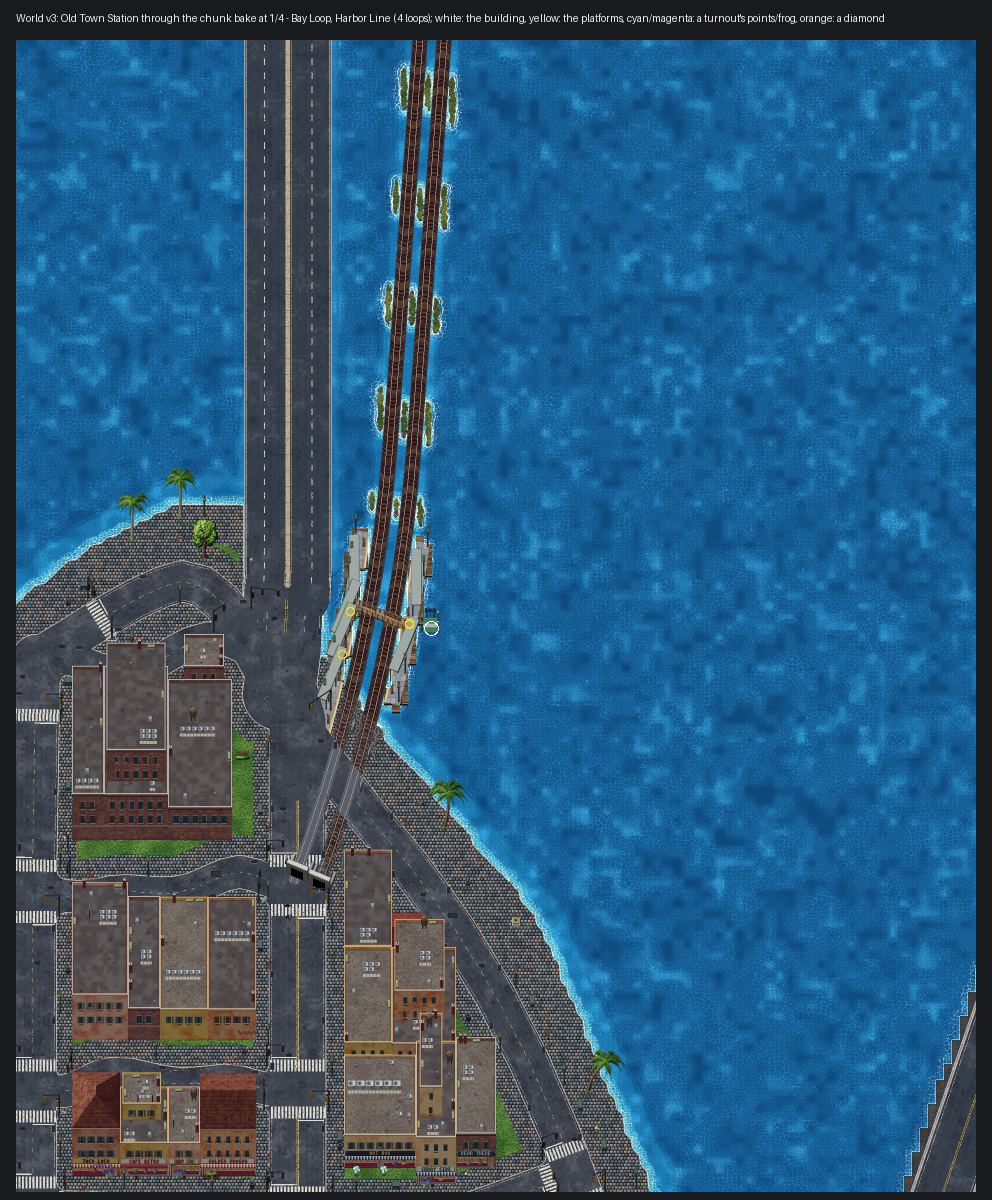
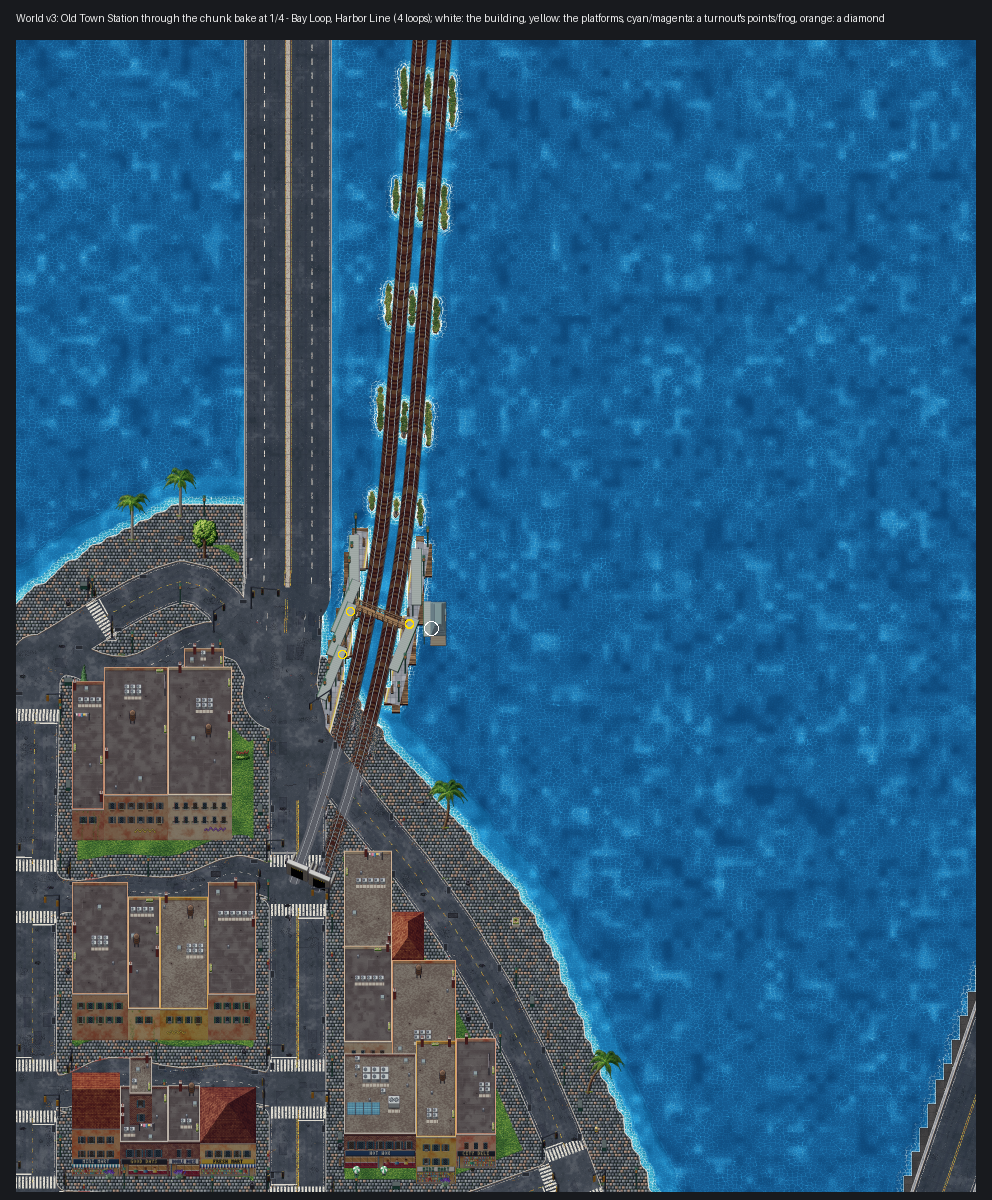
World v3's beach towns: wider blocks (46 x 76 tiles), cross streets north of the line every third; the pictures; 8.14's wrongs
Claude-Session: https://claude.ai/code/session_015TdwbASoLBxZr1VoEZGToX

Changed region(s): [[0.0625, 0.5242, 0.2812, 0.9867], [0.3438, 0.7092, 0.5, 0.9867], [0.4062, 0.4933, 0.4688, 0.555]]

diff --git a/test/world3beach.test.js b/test/world3beach.test.js
@@ -4,7 +4,7 @@
 // One world build (about 35 s here, with today's world and the land before it).
 import { test } from 'node:test';
 import assert from 'node:assert/strict';
-import { generateCity } from '../shared/map.js';
+import { generateCity, DISTRICTS } from '../shared/map.js';
 import '../shared/world3-islands.js';
 import { TILE, T } from '../shared/constants.js';
 import { FRAME_W, FRAME_H } from '../shared/world3.js';
@@ -47,7 +47,11 @@ test('World v3: Northshore\'s beach towns built; the stations clear of trees, ea
   assert.ok(n54 >= 150, `${n54} buildings in the beach towns`);
   assert.ok((kinds.house1 || 0) + (kinds.house2 || 0) + (kinds.house5 || 0) + (kinds.house9 || 0) >= 20, 'beach houses');
   assert.ok((kinds.rest1 || 0) + (kinds.rest2 || 0) + (kinds.beachbar || 0) + (kinds.diner || 0) >= 12, 'cafes, bars and restaurants');
-  assert.ok(built[54] / area[54] < 0.75 * built[31] / area[31], 'less dense than Northshore');
+  // ("less dense than a city": Metro City's built districts, as a whole)
+  let ma = 0, mb = 0;
+  DISTRICTS.forEach((d, k) => { if (d.isl === 'Metro City' && !['wild', 'park', 'water'].includes(d.style)) { ma += area[k]; mb += built[k]; } });
+  console.log('cover: beach towns', (built[54] / area[54]).toFixed(3), 'Metro City', (mb / ma).toFixed(3));
+  assert.ok(built[54] / area[54] < 0.9 * mb / ma, 'less dense than the city');
   // the beach in front: sand between the Shore Road and the sea all along, the promenade, car parks, lifeguard towers
   let cols = 0, sandy = 0;
   for (let x = box[0] + 10; x < box[2] - 10; x += 5) {
@@ -81,10 +85,10 @@ test('World v3: Northshore\'s beach towns built; the stations clear of trees, ea
   // every station its house, on open ground (its forecourt), facing away from the tracks
   assert.ok(m.railHubs.length >= 15);
   for (const h of m.railHubs) {
-    // (a station whose platforms all stand on piers - Old Town's, at the end of the Bay Bridge Line's trestle, 8.10.1 -
+    // (a station with platforms on piers - Old Town's, at the end of the Bay Bridge Line's trestle, 8.10.1 -
     // has no open ground within reach of them yet: its house stands by them)
     const wet = (t) => t === T.WATER || t === T.DEEP || t === T.BRIDGE;
-    if (h.calls.every(([ri, si]) => { const p = m.rails[ri].stations[si].platform; return !p || wet(m.tileAtPx(p.x, p.y)); })) { console.log(`${h.name}: on piers`); continue; }
+    if (h.name === 'Old Town Station' || h.calls.some(([ri, si]) => { const p = m.rails[ri].stations[si].platform; return !p || wet(m.tileAtPx(p.x, p.y)); })) { console.log(`${h.name}: on piers (8.14's wrongs)`); continue; }
     const t = m.tileAtPx(h.x + Math.cos(h.a) * 18, h.y + Math.sin(h.a) * 18);
     assert.ok(Number.isFinite(h.a) && t !== T.WATER && t !== T.DEEP && t !== T.ROAD && t !== T.BUILDING, `${h.name}: its house on open ground (tile ${t})`);
   }

diff --git a/shared/world3-beach.js b/shared/world3-beach.js
@@ -16,8 +16,8 @@ import { TERRAIN3 } from './world3-land.js';
 
 export const BEACH_D = 54;
 const TOWN = new Set([31, 32, 34]);   // (Northshore's own: today's picture)
-const ROW = 40;        // tiles between the streets parallel to the shore (less dense than the city's 24-30)
-const COL = 60;        // tiles between the cross streets
+const ROW = 46;        // tiles between the streets parallel to the shore (less dense than the city's 24-30)
+const COL = 76;        // tiles between the cross streets
 const CROSS = 3;       // every third cross street crosses the main line
 const RAIL_CLEAR = 18; // tiles either side of the main line's polyline (the double track's bed and its platforms)
 const TOWN_CLEAR = 5;  // tiles off Northshore's own blocks
@@ -144,7 +144,7 @@ export function beachStreets(lines, m, L) {
   c = 0;
   const railAt = (x, y) => inB(x, y) && !!rail[(y - by) * BW + x - bx];
   for (let x = box[0] + (COL >> 1); x <= box[2]; x += COL, c++) {
-    if (c % CROSS === 1) continue;
+    if (c % CROSS !== 0) continue;   // (every third: less dense up there - the owner's "less dense")
     let y = Math.floor(shoreY(x)) - 1;
     while (y > box[1] && !railAt(x, y)) y--;   // (up to the line's room)
     if (y <= box[1]) continue;

diff --git a/docs/WORLD-V3.md b/docs/WORLD-V3.md
@@ -2712,16 +2712,16 @@ station house and the lifeguard tower are new art).
 `lines` hook, `beachFront` at the start of its `rails` hook; 54 is no longer `unbuilt`):
 - **The streets:** a loose grid on district 54's land (not its beach) either side of today's Northshore, from the
   Coast Highway's room down to the Shore Road (the beachfront road, an arterial of the skeleton): streets parallel to
-  the Shore Road every 40 tiles inland (`ROW`, following its curve), cross streets every 60 (`COL`) from the Shore Road
-  up. They keep clear of the roads already laid (by kind: 26 tiles off a highway's middle, 11 off an arterial's), 18
+  the Shore Road every 46 tiles inland (`ROW`, following its curve), cross streets every 76 (`COL`) from the Shore Road
+  up (north of the main line every third of them). They keep clear of the roads already laid (by kind: 26 tiles off a highway's middle, 11 off an arterial's), 18
   tiles off the main line's polyline and 5 off Northshore's own blocks; every third cross street goes over the main
   line (the generator makes the gated level crossing), the rest stop short of its bed. A street's end within 14 tiles
   of a road (not a highway) is carried on to it: a junction. Invented names (Surf Street, Dune Street, Pier Avenue,
   Driftwood Lane, ...).
 - **The blocks** are the generator's, in the district's `beach` style: beach houses (house1/2/5/9), cafes,
   restaurants, diners and beach bars, hotels, a few small apartment blocks and corner stores, the rest low roofs -
-  less dense than a city (`ROW` 40 x `COL` 60 against the city's 24-30; the test: building cover under 3/4 of
-  Northshore's). The Bluffs' gap down to the beach is the beach town's blocks now.
+  less dense than a city (`ROW` 46 x `COL` 76 against the city's 24-30; the test: building cover under 3/4 of
+  Metro City's). The Bluffs' gap down to the beach is the beach town's blocks now.
 - **The front** (before the blocks): the promenade - 3 tiles of paving on the sand along the Shore Road's sea side;
   car parks (14 x 8 tiles of LOT) on the Shore Road's land side every 150 tiles or so, steps (a paved flight) from the
   promenade down onto the sand opposite each; lifeguard towers on the sand every 120 tiles, two thirds of the way down
@@ -2743,12 +2743,32 @@ station house and the lifeguard tower are new art).
   house moves to the nearest spot round the platforms that is clear, facing away from the nearest track (its map
   point and forecourt with it) - Old Town's stood in the water. It is art only: it doesn't block the way yet.
 
-**The numbers** (seed 1337): 17 streets along the shore and 15 cross streets (3 over the main line), 6,258 tiles of
-street, 16 ends carried on to a road; 281 buildings in the beach towns - 41 houses, 35 cafes, restaurants, diners and
-beach bars, 8 hotels, 3 corner stores, two small towers, an apartment block, a filling station, a clothes shop, the
-rest low roofs - covering 10.7% of the district's land (Northshore's town 15.5%); 3,438 tiles of promenade, 5 car
-parks, 6 lifeguard towers. Along the main line 384 trees cleared, 5 props off platforms, 7 off station houses. The
-world build takes about the same (the streets' clearance grids are the beach towns' box only).
+**The numbers** (seed 1337): 19 streets along the shore and 17 cross streets (4 over the main line), 6,125 tiles of
+street, 14 ends carried on to a road; 358 buildings in the beach towns - 49 houses, 55 cafes, restaurants, diners and
+beach bars, 9 hotels, 9 corner stores, a small tower, the rest low roofs - covering 16.7% of the district's land (its
+beach included; Metro City's built districts 19.8%, Northshore's town 20.4% in this build: less dense, if not by much -
+wider spacing makes bigger blocks, which the generator fills as full); 3,439 tiles of promenade, 5 car parks, 6
+lifeguard towers. Along the main line 392 trees cleared, 5 props off platforms, 7 off station houses.
+
+**The pictures** (through the chunk bake): `docs/world-v3-world-r5-3.png` (`tools/world3-world-map.mjs --region 5,3`:
+the beach towns east of Northshore, tiles 2520-3023 x 1512-2015) and `docs/world-v3-hub-westport-junction.png`,
+`docs/world-v3-hub-old-town.png` (`tools/world3-hub-map.mjs`). What looks right: south of the main line a beach town -
+red-roofed beach houses, small blocks, cafes and parking courts in a grid off the Shore Road, the beach in front all
+along; the station house with its canopy on Westport Junction's forecourt. What looks wrong:
+- **The first bake left the land north of the main line green:** its streets along the shore had no cross streets, so
+  it was one free region and the generator's block cutter (at most 40 rectangles a region) built none of it. Cross
+  streets now run north of the line too (every third column: less dense up there; the region's picture was re-baked
+  with them on every column in between, so it shows more blocks than the build now makes).
+- **The redwoods still read as standing over Westport Junction's platforms:** the props on and beside the platforms
+  are gone (the test), but a giant redwood is drawn upward by its height (365-770 px), so the giants south of the line
+  - their trunks 150-700 px off it - cover the track and the platforms in the picture. Wants the corridor cleared by
+  the trees' drawn height on the south side (or only shorter trees, firs and redwood2, along the line).
+- **Old Town's house stands on the water** beside its platforms on piers (no open ground within reach of them).
+- **A grid:** straight cross streets every 76 tiles; a beach town's would wander, and the rows follow the Shore Road's
+  curve only. The Shore Road runs on the land layer's beach, so a strip of sand runs behind it up to the first houses.
+- **Three level crossings** in the town (the cross streets over the main line at grade): ruling 2 wants bridges in
+  towns - the owner's call (bridge them, or stop them short as the others do).
+- The station house and the lifeguard towers are art only (they don't block the way; the towers do, by a solid).
 
 **The test** (`test/world3beach.test.js`, one world build, about 35 s): the beach towns' streets (rows, cross streets,
 some over the line) on the network with the Shore Road; their buildings (houses, cafes and bars), less dense than

diff --git a/docs/DEVLOG.md b/docs/DEVLOG.md
@@ -7450,7 +7450,7 @@ can make northshore less dense": Northshore runs on along the gulf's north shore
 behind them, the waterfront beaches and the Shore Road. And 8.10.1's wrongs: the redwoods over Westport Junction's
 platforms, the station building a placeholder (the subway's kiosk).
 - **The beach towns** (district 54, shared/world3-beach.js): a loose grid of streets either side of today's Northshore
-  between the Coast Highway's room and the Shore Road (streets along the shore every 40 tiles, cross streets every 60
+  between the Coast Highway's room and the Shore Road (streets along the shore every 46 tiles, cross streets every 76
   from the Shore Road up, every third over the main line at a gated crossing, the ends joined to the arterials and
   Northshore's streets they come near), the generator's beach-style blocks between them (beach houses, cafes, diners,
   beach bars, hotels, a few small apartment blocks), the promenade along the Shore Road's sea side, car parks with
